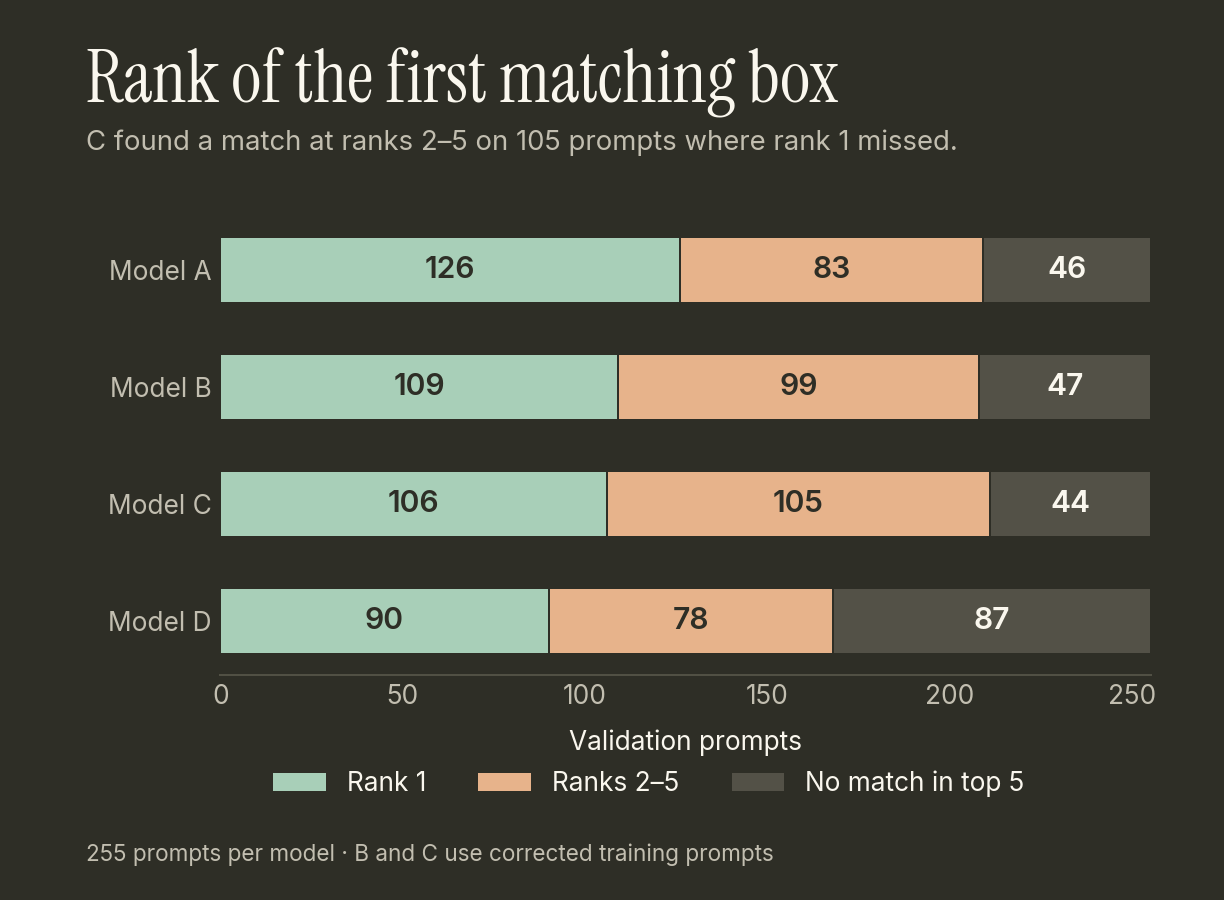
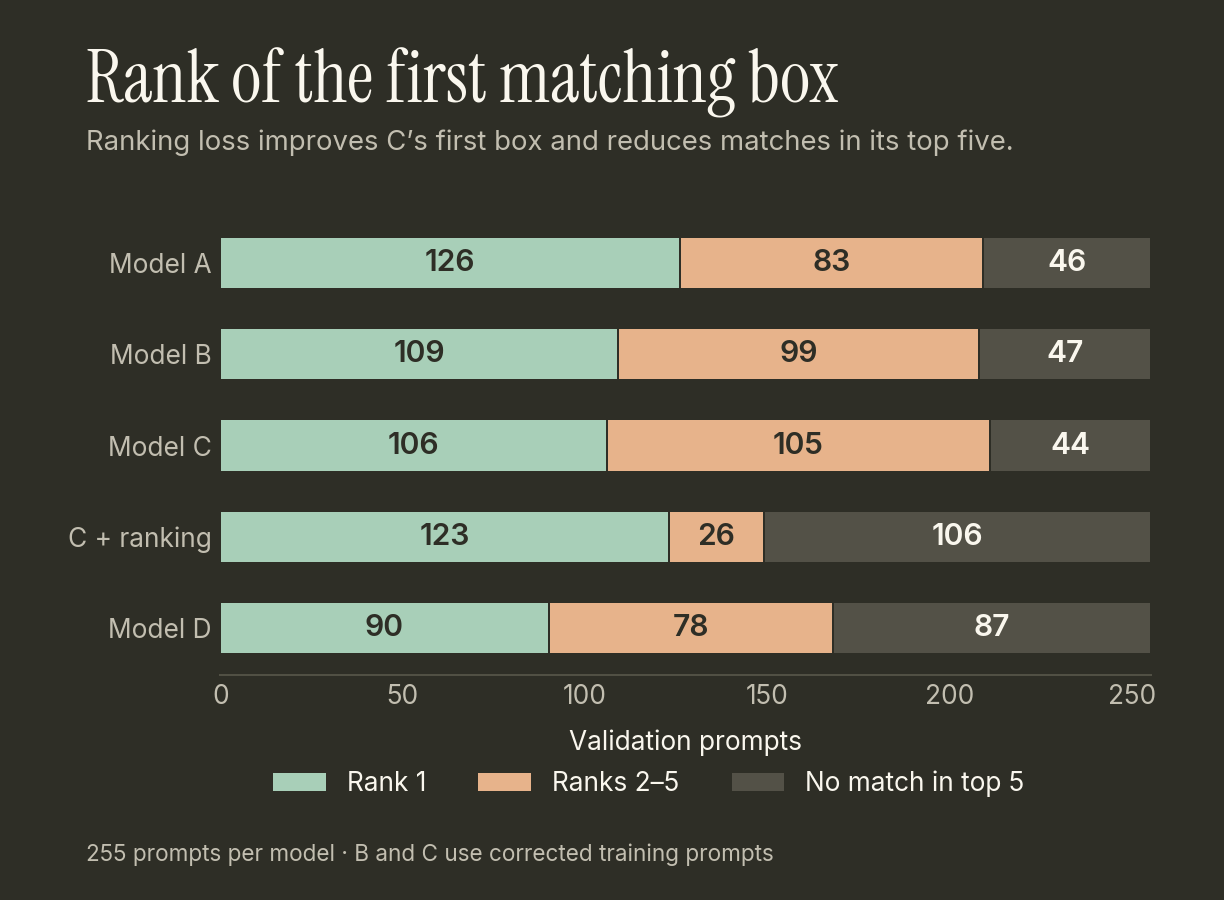
ranking loss train done

diff --git a/frontend/src/ReportsPanel.vue b/frontend/src/ReportsPanel.vue
@@ -1,6 +1,7 @@
 <script setup>
 import { ref } from 'vue'
 import accuracyLatency from '../../docs/figures/accuracy-latency.png'
+import boxRankBreakdown from '../../docs/figures/box-rank-breakdown.png'
 import translationRepair from '../../docs/figures/translation-repair.png'
 
 const panel = ref(null)
@@ -19,13 +20,24 @@ const panel = ref(null)
     <div class="reports-body">
       <section aria-labelledby="validation-title">
         <h3 id="validation-title">Uzbek visual grounding results</h3>
-        <p>UzBEye compares inference-time translation with direct Uzbek grounding. All four models were
-          evaluated on the same 255 corrected Uzbek validation prompts.</p>
+        <p>UzBEye compares inference-time translation with direct Uzbek grounding. All runs use
+          the same 255 corrected Uzbek validation prompts for this comparison.</p>
         <figure>
           <img :src="accuracyLatency" width="1224" height="936"
-               alt="Accuracy versus median latency. Model A leads at 49.4% and 450 milliseconds. Corrected B and C score 42.7% and 41.6% at roughly 205 milliseconds.">
+               alt="Accuracy versus median latency. Model A scores 49.4% at 450 milliseconds. Model C with ranking loss scores 48.2% at 208 milliseconds.">
           <figcaption>Top-1 accuracy counts a match when the first box overlaps the target with IoU ≥ 0.5.
             Latency was measured on a Quadro RTX 5000 and includes uncached translation for A.</figcaption>
+        </figure>
+      </section>
+
+      <section aria-labelledby="ranking-title">
+        <h3 id="ranking-title">Model C with ranking loss</h3>
+        <p>Top-1 accuracy rose from 41.6% to 48.2%. Top-5 recall fell from 82.7% to 58.4%.</p>
+        <figure>
+          <img :src="boxRankBreakdown" width="1224" height="900" loading="lazy"
+               alt="Model C gained 17 first-ranked matches and lost 62 matches across the top five.">
+          <figcaption>Each bar counts whether the first matching box was ranked first, ranked second to fifth,
+            or absent from the top five.</figcaption>
         </figure>
       </section>
 

diff --git a/src/training/trainer.py b/src/training/trainer.py
@@ -5,7 +5,7 @@ from pathlib import Path
 from time import perf_counter
 
 import torch
-from torchvision.ops import generalized_box_iou, sigmoid_focal_loss
+from torchvision.ops import box_iou, generalized_box_iou, sigmoid_focal_loss
 
 from src.common import digest, environment, peak_mib, sync, write_json
 from src.data.dataset import open_image, training_input_hash
@@ -13,26 +13,39 @@ from src.data.preprocessing import corners, normalized_box
 from src.evaluation.metrics import overlaps
 
 
-def grounding_loss(logits, boxes, target):
+def grounding_loss(logits, boxes, target, *, ranking_loss=False):
     # Exact single-target assignment: the minimum-cost query is the entire Hungarian match.
     target = boxes.new_tensor(target)[None]
     distance = (boxes - target).abs().sum(-1)
-    giou = generalized_box_iou(corners(boxes), corners(target))[:, 0]
+    box_corners, target_corners = corners(boxes), corners(target)
+    giou = generalized_box_iou(box_corners, target_corners)[:, 0]
+    scores = logits.sigmoid().mean(-1)
     with torch.no_grad():
-        matched = (5*distance - 2*giou - logits.sigmoid().mean(-1)).argmin()
+        matched = (5*distance - 2*giou - scores).argmin()
     labels = torch.zeros_like(logits)
     labels[matched] = 1
     focal = sigmoid_focal_loss(logits, labels, alpha=.25, gamma=2, reduction="sum") / logits.shape[1]
-    return focal + 5*distance[matched] + 2*(1-giou[matched])
+    loss = focal + 5*distance[matched] + 2*(1-giou[matched])
+    if ranking_loss:
+        with torch.no_grad():
+            iou = box_iou(box_corners.clamp(0, 1), target_corners)[:, 0]
+            valid = iou >= .5
+        # Compare the best-localized box with the highest-scoring incorrect box.
+        wrong_score = scores.masked_fill(valid, -torch.inf).max()
+        penalty = (.1 + wrong_score - scores[iou.argmax()]).relu()
+        loss = loss + torch.where(valid.any(), penalty, 0.)
+    return loss
 
 
 def validation(model, root, rows):
     model.eval()
-    correct = 0
+    top1 = top5 = 0
     for row in rows:
         boxes, _ = model.predict(open_image(root, row), row["uz"])
-        correct += overlaps(row, boxes)[0] >= .5
-    return correct / len(rows)
+        iou = overlaps(row, boxes)
+        top1 += iou[0] >= .5
+        top5 += max(iou[:5]) >= .5
+    return top1 / len(rows), top5 / len(rows)
 
 
 def fit(model, root, rows, folder, cfg, approach):
@@ -55,7 +68,8 @@ def fit(model, root, rows, folder, cfg, approach):
         torch.cuda.reset_peak_memory_stats(device)
     sync(device)
     start = perf_counter()
-    best, stale, updates = -1, 0, 0
+    best, best_top5, stale, updates = -1, 0., 0, 0
+    ranking_loss = cfg.get("ranking_loss", False)
     provenance = dict(config=cfg, approach=approach, data_hash=digest(train + val),
                       training_input_hash=training_input_hash(rows),
                       environment=environment(device), trainable=sum(p.numel() for p in names.values()),
@@ -75,7 +89,7 @@ def fit(model, root, rows, folder, cfg, approach):
                 total = 0.
                 for row in group:
                     logits, boxes = model(open_image(root, row), row["uz"])
-                    loss = grounding_loss(logits, boxes, normalized_box(row))
+                    loss = grounding_loss(logits, boxes, normalized_box(row), ranking_loss=ranking_loss)
                     if not torch.isfinite(loss):
                         raise FloatingPointError("Non-finite grounding loss")
                     scaler.scale(loss / len(group)).backward()
@@ -100,11 +114,11 @@ def fit(model, root, rows, folder, cfg, approach):
             if updates == 0:
                 raise FloatingPointError("No optimizer step applied; inspect gradient and precision logs")
             print(f"{epoch_label} | Running validation...", flush=True)
-            score = validation(model, root, val)
-            print(json.dumps(dict(epoch=epoch+1, val_accuracy=score)), file=log, flush=True)
-            print(f"{epoch_label} | Validation accuracy at IoU >= 0.5: {score:.1%}", flush=True)
+            score, top5 = validation(model, root, val)
+            print(json.dumps(dict(epoch=epoch+1, val_accuracy=score, val_recall_5=top5)), file=log, flush=True)
+            print(f"{epoch_label} | Validation at IoU >= 0.5 | Top-1 {score:.1%} | Top-5 {top5:.1%}", flush=True)
             if score > best:
-                best, stale = score, 0
+                best, best_top5, stale = score, top5, 0
                 tmp = folder/"best.tmp"
                 torch.save(dict(approach=approach, config=cfg,
                                 weights={k:v.detach().cpu() for k,v in names.items()}), tmp)
@@ -117,6 +131,7 @@ def fit(model, root, rows, folder, cfg, approach):
                 break
     sync(device)
     write_json(folder/"training.json", provenance | dict(train_seconds=perf_counter()-start,
-               best_val_accuracy=best, epochs_completed=epoch+1, updates=updates, peak_mib=peak_mib(device),
-               delta_bytes=(folder/"best.pt").stat().st_size))
-    print(f"Training complete. Best validation accuracy: {best:.1%}. Checkpoint: {folder/'best.pt'}", flush=True)
+               best_val_accuracy=best, best_val_recall_5=best_top5, epochs_completed=epoch+1,
+               updates=updates, peak_mib=peak_mib(device), delta_bytes=(folder/"best.pt").stat().st_size))
+    print(f"Training complete. Best checkpoint | Top-1 {best:.1%} | Top-5 {best_top5:.1%} | {folder/'best.pt'}",
+          flush=True)

diff --git a/scripts/plot_validation_results.py b/scripts/plot_validation_results.py
@@ -24,10 +24,12 @@ TEAL = "#a8cfb8"
 GOLD = "#e7b38b"
 SLATE = "#a9bec7"
 LAVENDER = "#c9b9e5"
+ROSE = "#edb8c5"
 VARIANTS = {
     "A-cold": ("A · Translate-at-Inference", GOLD),
     "B-corrected": ("B · Translate-Train", TEAL),
     "C-corrected": ("C · Uzb-lang encoder", LAVENDER),
+    "C-ranking": ("C · With ranking loss", ROSE),
     "D": ("D · Zero-Shot Uzbek", SLATE),
 }
 
@@ -64,7 +66,10 @@ def finish(fig, title_font, title, subtitle, footer, out):
 def tradeoff(rows, title_font, out):
     fig, ax = plt.subplots(figsize=(6.8, 5.2))
     fig.subplots_adjust(left=.14, right=.93, bottom=.20, top=.76)
-    offsets = {"A-cold": (-10, 10), "B-corrected": (12, 14), "C-corrected": (12, -17), "D": (12, 0)}
+    offsets = {
+        "A-cold": (-10, 10), "B-corrected": (12, 14), "C-corrected": (12, -17),
+        "C-ranking": (12, 10), "D": (12, 0),
+    }
 
     for key, (label, color) in VARIANTS.items():
         row = rows[key]
@@ -79,7 +84,7 @@ def tradeoff(rows, title_font, out):
     ax.yaxis.set_major_formatter(PercentFormatter(xmax=100, decimals=0))
     ax.grid(axis="both")
     finish(fig, title_font, "Accuracy versus latency",
-           "A scores highest. Corrected B and C respond in about 205 ms.",
+           "C with ranking loss approaches A’s top-1 score at about half the latency.",
            "255 corrected validation prompts · Quadro RTX 5000 · A includes translation", out)
 
 
@@ -137,13 +142,14 @@ def ranking(rows, title_font, out):
                     fontsize=12, fontweight=600)
             left += count
 
+    row_labels = ["C + ranking" if key == "C-ranking" else f"Model {key[0]}" for key in VARIANTS]
     ax.set(xlim=(0, next(iter(rows.values()))["n"]), xlabel="Validation prompts",
-           yticks=list(range(len(VARIANTS))), yticklabels=[f"Model {name[0]}" for name in VARIANTS])
+           yticks=list(range(len(VARIANTS))), yticklabels=row_labels)
     ax.invert_yaxis()
     handles = [Patch(facecolor=fill, label=label) for fill, label in zip(fills, labels, strict=True)]
     fig.legend(handles=handles, loc="center", bbox_to_anchor=(.53, .129), ncol=3, frameon=False)
     finish(fig, title_font, "Rank of the first matching box",
-           "C found a match at ranks 2–5 on 105 prompts where rank 1 missed.",
+           "Ranking loss improves C’s first box and reduces matches in its top five.",
            "255 prompts per model · B and C use corrected training prompts", out)
 
 

diff --git a/tests/test_pipeline.py b/tests/test_pipeline.py
@@ -95,6 +95,22 @@ def test_objective_and_metrics():
     assert crossover(50,2,1) == 50 and crossover(50,1,2) is None
 
 
+def test_ranking_loss_prefers_the_best_overlap_over_the_highest_scoring_wrong_box():
+    target = [.5, .5, .2, .2]
+    boxes = torch.tensor([target, [.5,.5,.18,.18], [.2,.2,.1,.1], [.8,.8,.1,.1]])
+    logits = torch.tensor([[-2., -2.], [3., 3.], [1., 1.], [0., 0.]], requires_grad=True)
+    extra = grounding_loss(logits, boxes, target, ranking_loss=True) - grounding_loss(logits, boxes, target)
+    gradients, = torch.autograd.grad(extra, logits)
+    assert extra > 0
+    assert (gradients[0] < 0).all() and (gradients[2] > 0).all()
+    torch.testing.assert_close(gradients[[1, 3]], torch.zeros_like(gradients[[1, 3]]))
+
+    for subset in (slice(0, 2), slice(2, 4)):
+        default = grounding_loss(logits[subset], boxes[subset], target)
+        ranked = grounding_loss(logits[subset], boxes[subset], target, ranking_loss=True)
+        torch.testing.assert_close(ranked, default)
+
+
 def test_review_source_and_identity():
     row = dict(id=1,image_id=2,en="red",mt="qizil",bbox=[0,0,2,2],split="test")
     review = dict(row,uz="qizil",reviewer="reader",status="accepted")

diff --git a/src/training/train.py b/src/training/train.py
@@ -15,8 +15,12 @@ def main(approach):
     p.add_argument("--out", required=True)
     p.add_argument("--epochs", type=int)
     p.add_argument("--device", default="cuda")
+    if approach == "C":
+        p.add_argument("--ranking-loss", action="store_true", help="Add a box ranking loss to Model C training")
     args = p.parse_args()
     cfg = config(args.config)
+    if approach == "C" and args.ranking_loss:
+        cfg["ranking_loss"] = True
     if args.epochs is not None:
         if args.epochs < 1:
             p.error("--epochs must be positive")
@@ -30,6 +34,8 @@ def main(approach):
         p.error(f"Output directory already exists: {args.out}. Choose a new directory.")
     rows = read_json(manifest)
     device = torch.device(args.device)
+    if cfg.get("ranking_loss"):
+        print("Using the existing grounding loss plus the box ranking loss.", flush=True)
     print(f"Loading Model {approach} on {device}...", flush=True)
     seed_all(cfg["seed"])
     try:

diff --git a/README.md b/README.md
@@ -34,19 +34,24 @@ All rows below use the same **255 corrected validation prompts** on a Quadro RTX
 | B · Corrected translations | 42.7% (109/255) | 81.6% | 207 ms |
 | C · Original translations | 42.4% (108/255) | 76.9% | 207 ms |
 | C · Corrected translations | 41.6% (106/255) | 82.7% | 204 ms |
+| C · Corrected translations + ranking loss | 48.2% (123/255) | 58.4% | 208 ms |
 | D · Zero-Shot Uzbek | 35.3% (90/255) | 65.9% | 212 ms |
 
 See the [benchmark data and evaluation protocol](docs/validation-results.json). The validation split was used for checkpoint selection. The 128 selected official test expressions still have English annotations and need Uzbek review before held-out evaluation.
 
 ### Reading the results
 
-![Scatter plot of top-1 accuracy and median latency. A reaches 49.4% at 450 ms. Corrected B and C reach 42.7% and 41.6% at roughly 205 ms.](docs/figures/accuracy-latency.png)
+![Scatter plot of top-1 accuracy and median latency. Model C with ranking loss reaches 48.2% at 208 ms. Model A reaches 49.4% at 450 ms.](docs/figures/accuracy-latency.png)
 
-**Accuracy and latency.** A returned 17 more correct first-ranked boxes than corrected B across 255 prompts. B’s median latency was 207 ms compared with 450 ms for A, which includes uncached translation.
+**Accuracy and latency.** C with ranking loss returned 123 correct first boxes in 208 ms median latency. A returned 126 correct first boxes in 450 ms, including uncached translation.
 
 ![Paired plots showing top-1 and top-5 scores for B and C trained on the original and corrected translations.](docs/figures/translation-repair.png)
 
-**Translation repairs.** B gained 10 first-ranked matches and lost nine top-five matches. C lost two first-ranked matches and gained 15 top-five matches. The training prompts and the validation prompts used for checkpoint selection both changed between the two versions. The [box rank breakdown](docs/figures/box-rank-breakdown.png) shows that corrected C placed a matching box at ranks 2–5 on 105 prompts where its first box missed.
+**Translation repairs.** B gained 10 first-ranked matches and lost nine top-five matches. C lost two first-ranked matches and gained 15 top-five matches. The training prompts and the validation prompts used for checkpoint selection both changed between the two versions.
+
+![Stacked bars comparing the first correct box across models. With ranking loss, Model C goes from 106 to 123 first-ranked matches and from 211 to 149 matches anywhere in the top five.](docs/figures/box-rank-breakdown.png)
+
+**Ranking loss.** On the same 255 prompts, Model C gained 17 first-ranked matches (+6.7 percentage points) and lost 62 matches among its top five (−24.3 percentage points). Both runs used the same corrected training data and seed. The baseline stopped after three epochs and the ranking-loss run completed five. Checkpoint selection and scoring both used this validation split.
 
 After installing the Python and frontend dependencies, regenerate the figures with `.\.venv\Scripts\python.exe -m scripts.plot_validation_results`.
 
@@ -94,6 +99,14 @@ The commands below use the local corrected manifest. A fresh clone contains sour
 .\scripts\finetune.ps1 -Model C -RunName reproduction -Manifest data/refcocog/training_bilingual_corrected.json
 .\.venv\Scripts\python.exe -m scripts.run_comparison --root data/refcocog --manifest data/refcocog/training_bilingual_corrected.json --runs runs/reproduction --out runs/reproduction-validation --validation
 ```
+
+To test Model C with the existing loss plus a box ranking loss, use the same corrected manifest and a fresh run name.
+
+```powershell
+.\scripts\finetune.ps1 -Model C -RunName corrected-ranking -Manifest data/refcocog/training_bilingual_corrected.json -RankingLoss
+```
+
+The launcher starts from the same pretrained weights as the reproduction run. Each validation pass prints top-1 and top-5 at IoU ≥ 0.5. The best checkpoint is selected by top-1, and its paired top-5 is recorded in `runs/corrected-ranking/C/training.json`.
 
 To prepare the original subset from scratch, run `scripts.prepare_dataset` with `--root data/refcocog --limits 4096 256 128`, then `src.data.translate` with `--root data/refcocog --stage training --batch-size 16` using `python -m`. Increase the limits to select more expressions. The corrected manifest and its audit are stored separately from this generated baseline.
 
